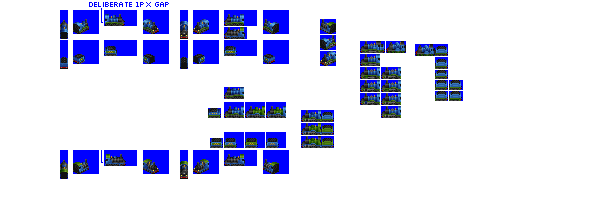
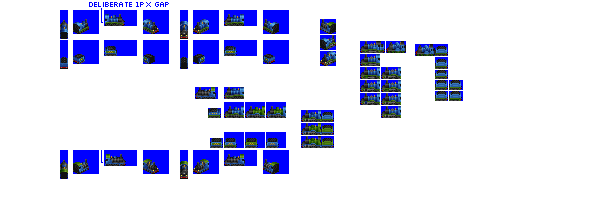
Change: sprites complete for Reliance

diff --git a/src/vehicles/reliance.py b/src/vehicles/reliance.py
@@ -13,7 +13,7 @@ def main(roster_id):
                             tractive_effort_coefficient=0.12,
                             fixed_run_cost_points=140, # minor cost bonus so it can make money
                             gen=1,
-                            sprites_complete=False)
+                            sprites_complete=True)
 
     consist.add_unit(type=SteamEngineUnit,
                      weight=56,
